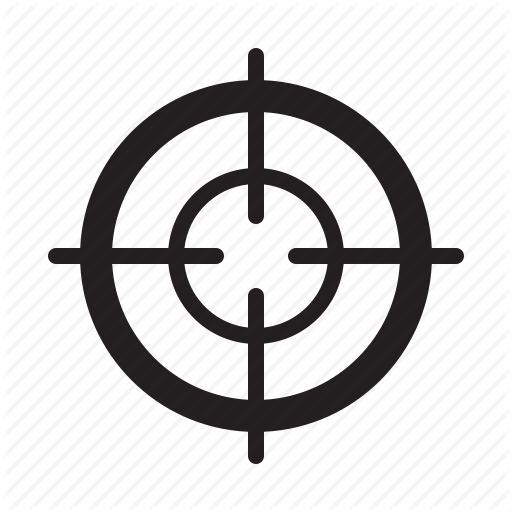
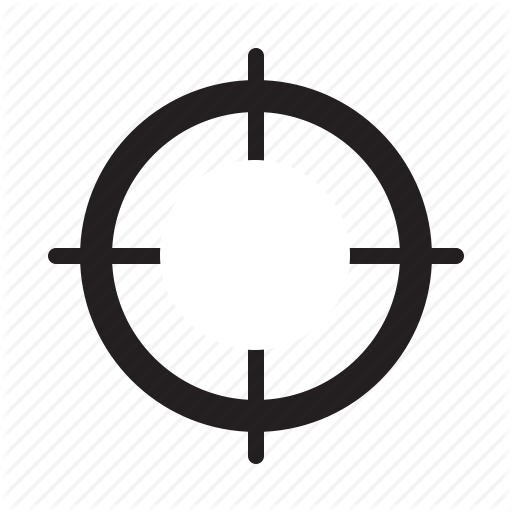
UI & UX fixes + responsive + prod setup

Changed region(s): [[0.3125, 0.3125, 0.6875, 0.6875]]

diff --git a/src/app/map/map.component.ts b/src/app/map/map.component.ts
@@ -1,5 +1,5 @@
 import { RestaurantListService } from './../nav/services/restaurant-list.service'
-import { AfterViewInit, Component, ElementRef, EventEmitter, Input, OnDestroy, Output, TemplateRef, ViewChild, ViewEncapsulation } from '@angular/core'
+import { AfterViewInit, Component, ElementRef, EventEmitter, Input, OnDestroy, OnInit, Output, TemplateRef, ViewChild, ViewEncapsulation } from '@angular/core'
 import { MapService } from '../services/map.service'
 import * as L from "leaflet";
 import { LatLng, LeafletMouseEvent, Map, Marker, marker, icon, circle, Circle } from 'leaflet'
@@ -18,16 +18,23 @@ const lineOptions: L.Routing.LineOptions = {
   missingRouteTolerance: 3
 }
 
+
 @Component({
   selector: 'app-map',
   templateUrl: './map.component.html',
   styleUrls: ['./map.component.less'],
   encapsulation: ViewEncapsulation.None
 })
-export class MapComponent implements AfterViewInit, OnDestroy {
+export class MapComponent implements AfterViewInit, OnDestroy, OnInit {
   private subs: Subscription[] = []
   private map!: Map
   private routePath!: L.Routing.Control
+
+  private colorAccent = '#FF80AB'
+
+  ngOnInit(): void {
+      L.Icon.Default.imagePath = "assets/leaflet/"
+  }
 
   /** markers list selected by user */
   private _markers: Marker[] = []
@@ -63,24 +70,28 @@ export class MapComponent implements AfterViewInit, OnDestroy {
   private _haloMarkerList: Marker[] = []
 
   /** target & halo shown? */
-  public canSetPosition = false
-  public positionActive = false
+  public canSetPosition = true
+  public positionActive = true
 
   private _showNav!: boolean
   @Input()
   set showNav(value: boolean) {
     this._showNav = value
     const routingContainer: HTMLDivElement[] = this.elementRef.nativeElement.getElementsByClassName('leaflet-routing-container')
-    if (routingContainer.length>0) {
-      if (!value) {
-        routingContainer[0].className = 'leaflet-routing-container leaflet-bar leaflet-control leaflet-up'
-      } else {
-        routingContainer[0].className = 'leaflet-routing-container leaflet-bar leaflet-control'
-      }
-    }
+    this.doSetRoutingLevel(routingContainer, value)
   }
   get showNav(): boolean {
     return this._showNav
+  }
+
+  private doSetRoutingLevel(container: HTMLDivElement[], showNav?: boolean) {
+    if (container?.length>0) {
+      if (!showNav) {
+        container[0].className = 'leaflet-routing-container leaflet-bar leaflet-control leaflet-up'
+      } else {
+        container[0].className = 'leaflet-routing-container leaflet-bar leaflet-control'
+      }
+    }
   }
 
   private _canShowHalo = false
@@ -96,8 +107,8 @@ export class MapComponent implements AfterViewInit, OnDestroy {
           className: 'halo',
           radius: this.mapService.targetHalo.value,
           stroke: false,
-          fillColor: 'crimson',
-          fillOpacity: value ? .4 : 0
+          fillColor: this.colorAccent,
+          fillOpacity: value ? .3 : 0
         }))
         this.haloMarkerCircle.value?.addTo(this.map)
       }
@@ -166,6 +177,9 @@ export class MapComponent implements AfterViewInit, OnDestroy {
         this.doRemoveMarker(undefined, true)
       }
     }))
+    // Load target by default
+    this.doSetTarget((<LeafletMouseEvent>{latlng: {lat: 40.766032966124875, lng: -73.97706260143013}}))
+    this.mapService.targetHalo.next(250)
   }
 
   /**
@@ -234,11 +248,30 @@ export class MapComponent implements AfterViewInit, OnDestroy {
     }
     const l_coord: LatLng = this.mapService.coordToLeaflet(a_value.address.coord)
     const l_options: optionMarker = this.optionMarkerBuilder(a_value)
-    const l_marker = marker(l_coord).addTo(this.map)
-    l_options?.popupContent && showPopup && l_marker.bindPopup(l_options.popupContent).openPopup() || l_marker.bindPopup(l_options.popupContent)
+    const l_marker = marker(l_coord, {
+      icon: icon({
+        className: 'marker-icon',
+        iconRetinaUrl: 'assets/leaflet/marker-icon-2x.png',
+        iconUrl: 'assets/leaflet/marker-icon.png',
+        iconSize: [25, 41],
+        iconAnchor: [12, 41],
+        pane: 'overlayPane',
+      }),
+      title: a_value.name,
+      pane: 'overlayPane',
+      draggable: false,
+      riseOnHover: true
+    }).addTo(this.map)
+    // l_options?.popupContent && showPopup && l_marker.bindPopup(l_options.popupContent).openPopup() ||
+    l_marker.bindPopup(l_options.popupContent)
     l_options?.tooltipContent && l_marker.bindTooltip(l_options.tooltipContent)
     // make route to target on click
     l_marker.addEventListener('mouseup', (e: LeafletMouseEvent) => {
+      if (l_marker.getTooltip()?.isOpen()) {
+      l_marker.closePopup()
+    } else {
+      l_marker.openPopup()
+    }
       this.doRouteMarker(e.latlng)
     })
     if (isHalo) {
@@ -279,6 +312,7 @@ export class MapComponent implements AfterViewInit, OnDestroy {
    */
   public doRouteMarker(a_to: LatLng, a_from?: LatLng) {
     if (a_from || this.targetMarker) {
+      // remove previous route
       this.routePath && this.map.removeControl(this.routePath)
       a_from = a_from || this.targetMarker!.getLatLng()
       this.routePath = L.Routing.control({
@@ -287,11 +321,12 @@ export class MapComponent implements AfterViewInit, OnDestroy {
           L.latLng(a_to)
         ],
         routeWhileDragging: true,
-        // showAlternatives: true,
+        collapsible: true,
         lineOptions
       })
       this.routePath.addTo(this.map)
       this.routePath.getPlan()
+      this.doSetRoutingLevel(this.elementRef.nativeElement.getElementsByClassName('leaflet-routing-container'), this.showNav)
     }
   }
 
@@ -313,7 +348,7 @@ export class MapComponent implements AfterViewInit, OnDestroy {
 
   // Halo on/off
   public doToggleHalo() {
-    this.map?.removeLayer(this.haloMarkerCircle.value!)
+    this.haloMarkerCircle?.value && this.map?.removeLayer(this.haloMarkerCircle.value!)
     this.haloRestaurantList = []
   }
 
@@ -323,7 +358,9 @@ export class MapComponent implements AfterViewInit, OnDestroy {
    */
   public doSetTarget(a_event?: LeafletMouseEvent) {
     if (a_event) {
+      this.canShowHalo = true
       this.doCreateTarget(a_event.latlng)
+      this.canShowHalo = true
     } else if (!this.positionActive) {
       this.doRemoveTarget()
     }
@@ -353,7 +390,7 @@ export class MapComponent implements AfterViewInit, OnDestroy {
     this.haloMarkerCircle.value && this.map.removeLayer(this.haloMarkerCircle.value!)
     const targetIcon = icon({
       className: 'target-icon',
-      iconUrl: '../../assets/img/target-icon.png',
+      iconUrl: 'assets/img/target-icon.png',
       iconSize: [40, 40],
       iconAnchor: [20, 20]
     })
@@ -370,8 +407,8 @@ export class MapComponent implements AfterViewInit, OnDestroy {
         className: 'halo',
         radius: this.mapService.targetHalo.value,
         stroke: false,
-        fillColor: 'crimson',
-        fillOpacity: this.canShowHalo ? .4 : 0
+        fillColor: this.colorAccent,
+        fillOpacity: this.canShowHalo ? .3 : 0
       }))
       this.haloMarkerCircle.value!.addTo(this.map)
     }

diff --git a/src/app/nav/nav.component.html b/src/app/nav/nav.component.html
@@ -18,14 +18,14 @@
       </div>
       <div class="col distance" [title]="target===undefined ? 'Set user position first':''">
         <mat-slider class="slider" min="50" max="3050" step="150" color="accent" showTickMarks label="distance"
-          placeholder="Distance" type="number" [disabled]="target===undefined || canUseHalo===false" discrete
+          placeholder="Distance" type="number" [disabled]="target===undefined || canShowHalo===false" discrete
           #distanceSlider>
           <input matSliderThumb #distanceInput (valueChange)="onChangeSelectValue($event, 'distance')"
             formControlName="distance">
         </mat-slider>
-        <div class="slide-toggle" [ngClass]="{active: canUseHalo}">
-          <mat-slide-toggle [checked]="canUseHalo" (change)="canUseHalo=!canUseHalo;showHaloChange.emit(canUseHalo);"
-            [disabled]="target===undefined" id="canUseHalo">
+        <div class="slide-toggle" [ngClass]="{active: canShowHalo}">
+          <mat-slide-toggle [checked]="canShowHalo" (change)="canShowHalo=!canShowHalo;showHaloChange.emit(canShowHalo);"
+            [disabled]="target===undefined" (click)="canShowHaloChange.emit(canShowHalo)">
             <div class="slide-toggle-txt">
               <i class="material-icons">radar</i>
               <div class="halo-text"> Proximity radar</div>

diff --git a/src/app/map/map.component.less b/src/app/map/map.component.less
@@ -39,8 +39,9 @@
   z-index: 1000;
   bottom: 10px;
   left: 10px;
+  cursor: pointer;
   &.active, &:hover {
-    filter: drop-shadow(0 0 3px crimson);
+    filter: drop-shadow(0 0 3px #F50057);
   }
   .target-text{
     background: black !important;
@@ -60,6 +61,18 @@
 }
 
 .leaflet-routing-container {
+  background-color: white;
+  padding: 10px;
+  position: relative;
+  .leaflet-routing-collapse-btn, .leaflet-routing-container-hide .leaflet-routing-collapse-btn  {
+    position: absolute !important;
+    top: 2px;
+    right: 2px;
+    padding: 0 10px;
+  }
+  td {
+    cursor: pointer;
+  }
   top: 145px;
   &.leaflet-up {
     top: 0;
@@ -96,10 +109,10 @@
     }
   }
   .leaflet-routing-container {
-    top: 285px;
+    top: 275px;
     right: 3px;
     &.leaflet-up {
-      top: 35px;
+      top: 25px;
     }
   }
 }

diff --git a/src/styles.less b/src/styles.less
@@ -1,10 +1,10 @@
 @font-face {
   font-family: hulkSmash;
-  src: url('assets/font/HulksmashRegular-5EPj.ttf');
+  src: url('./assets/font/HulksmashRegular-5EPj.ttf');
 }
 @font-face {
   font-family: smashWall;
-  src: url('assets/font/SmashWallPersonalUse-rg30A.ttf');
+  src: url('./assets/font/SmashWallPersonalUse-rg30A.ttf');
 }
 
 *{
@@ -28,7 +28,7 @@ app-root {
 app-nav {
   position: sticky;
   top: 0;
-  transition: .5s ease-in;
+  transition: .5s ease-in-out;
 
   &.hide {
     top: -145px;
@@ -47,14 +47,6 @@ mat-form-field {
   }
 }
 
-.leaflet-routing-container{
-  background-color: white;
-  padding: 10px;
-
-  td {
-    cursor: pointer;
-  }
-}
 
 /* tablets */
 @media (max-width:915px) {

diff --git a/src/app/services/map.service.ts b/src/app/services/map.service.ts
@@ -10,7 +10,7 @@ export class MapService {
   private _initConf = {
     lng:0,
     lat:0,
-    zoom:10
+    zoom:12
   }
 
   public target = new BehaviorSubject<Marker|undefined>(undefined)
@@ -69,7 +69,7 @@ export class MapService {
     control.zoom({position: 'bottomright'}).addTo(l_map)
 
     // center on Manhattan
-    l_map.setView(this.coordToLeaflet([-73.97910823752092, 40.765744828087435]), 15)
+    l_map.setView(this.coordToLeaflet([-73.97910823752092, 40.765744828087435]), 16)
     this.leafletMap$ = new BehaviorSubject(l_map)
   }
 

diff --git a/src/custom-theme.scss b/src/custom-theme.scss
@@ -7,7 +7,7 @@
 // (imported above). For each palette, you can optionally specify a default, lighter, and darker
 // hue. Available color palettes: https://material.io/design/color/
 $ny_restaurants_front-primary: mat.define-palette(mat.$green-palette, 400);
-$ny_restaurants_front-accent: mat.define-palette(mat.$red-palette, A200);
+$ny_restaurants_front-accent: mat.define-palette(mat.$pink-palette, A200);
 
 // The warn palette is optional (defaults to red).
 $ny_restaurants_front-warn: mat.define-palette(mat.$deep-orange-palette);

diff --git a/src/app/app.component.html b/src/app/app.component.html
@@ -4,7 +4,8 @@
     (onToggleNav)="showNav=!showNav"
     [ngClass]="{hide:!showNav}"
     [(showHalo)]="showHalo"
+    [(canShowHalo)]="canShowHalo"
     (onFilterChange)="updateHaloMarkers()"
     ></app-nav>
-  <app-map [restaurant]="restaurant" [(canShowHalo)]="showHalo" [showNav]="showNav"></app-map>
+  <app-map [restaurant]="restaurant" [(canShowHalo)]="canShowHalo" [showNav]="showNav"></app-map>
 <!-- </div> -->

diff --git a/src/app/nav/nav.component.ts b/src/app/nav/nav.component.ts
@@ -29,7 +29,8 @@ export class NavComponent implements OnInit, OnDestroy, AfterViewInit {
   gradesControl = new FormControl<any | null>(null)
 
   target?: Marker
-  canUseHalo = false
+  @Input() canShowHalo = true
+  @Output() canShowHaloChange = new EventEmitter<boolean>()
   @Input() showHalo!: boolean
   @Output() showHaloChange = new EventEmitter<boolean>()
 

diff --git a/src/app/map/map.component.html b/src/app/map/map.component.html
@@ -2,7 +2,7 @@
   <div class="nav-target" [ngClass]="{active: targetMarker!==undefined}">
     <img src="assets/img/target-icon.png" alt="target" (click)="doToggleTarget($event)">
     @if (canSetPosition) {
-      <div class="target-text">set user position</div>
+      <div class="target-text">Click map to set position</div>
     }
 </div>
 

diff --git a/src/app/app.component.ts b/src/app/app.component.ts
@@ -14,7 +14,8 @@ export class AppComponent {
   public restaurant!:Restaurant
 
   public showNav = true
-  public showHalo!: boolean
+  public showHalo = true
+  public canShowHalo = true
 
   public updateHaloMarkers() {
     this.mapComp.doLoadHaloRestaurants()
